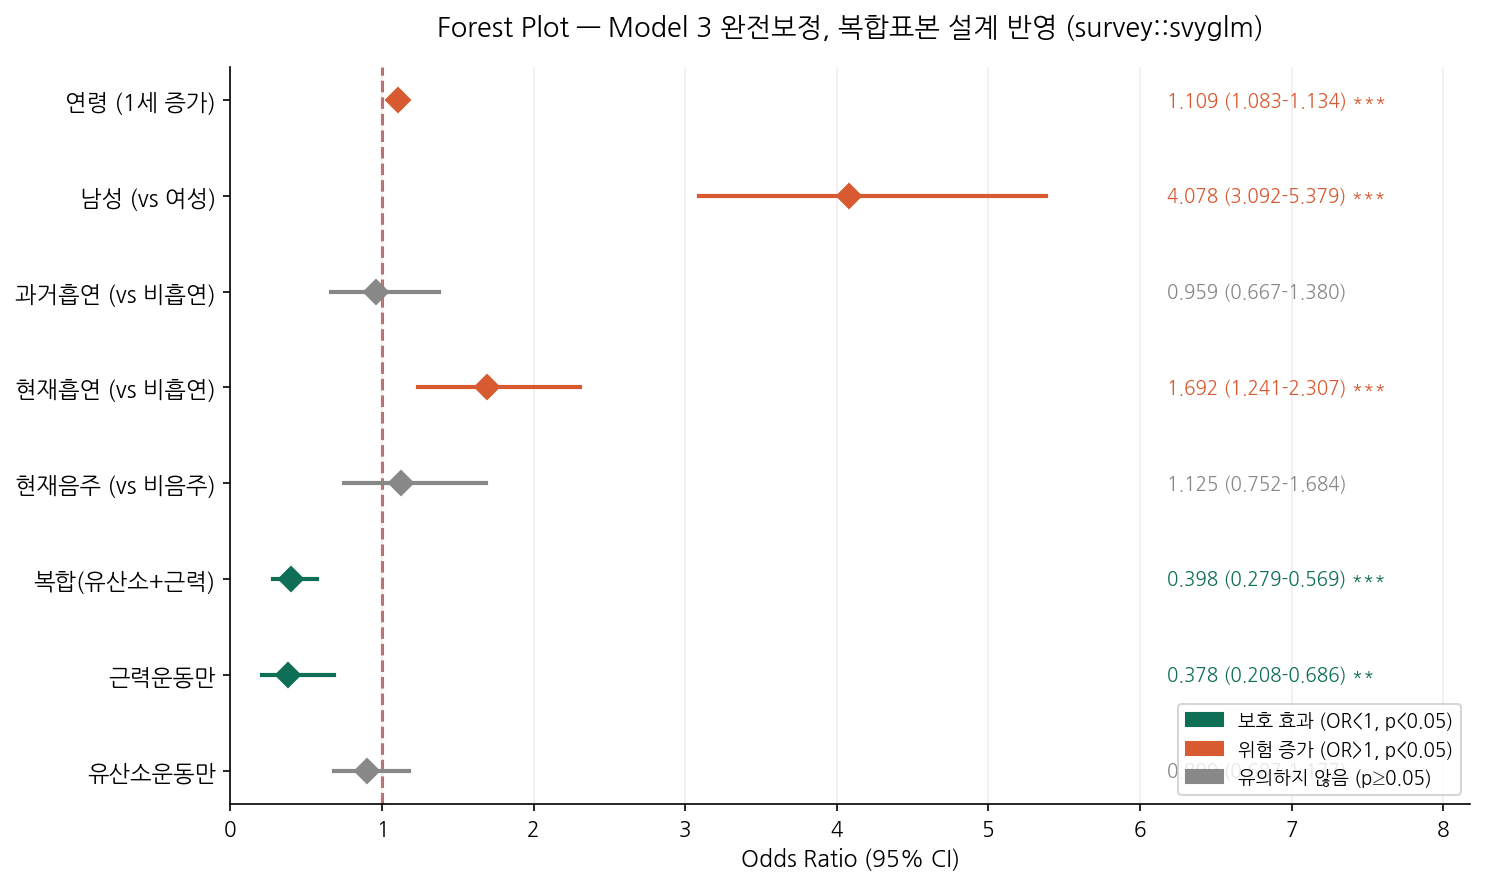
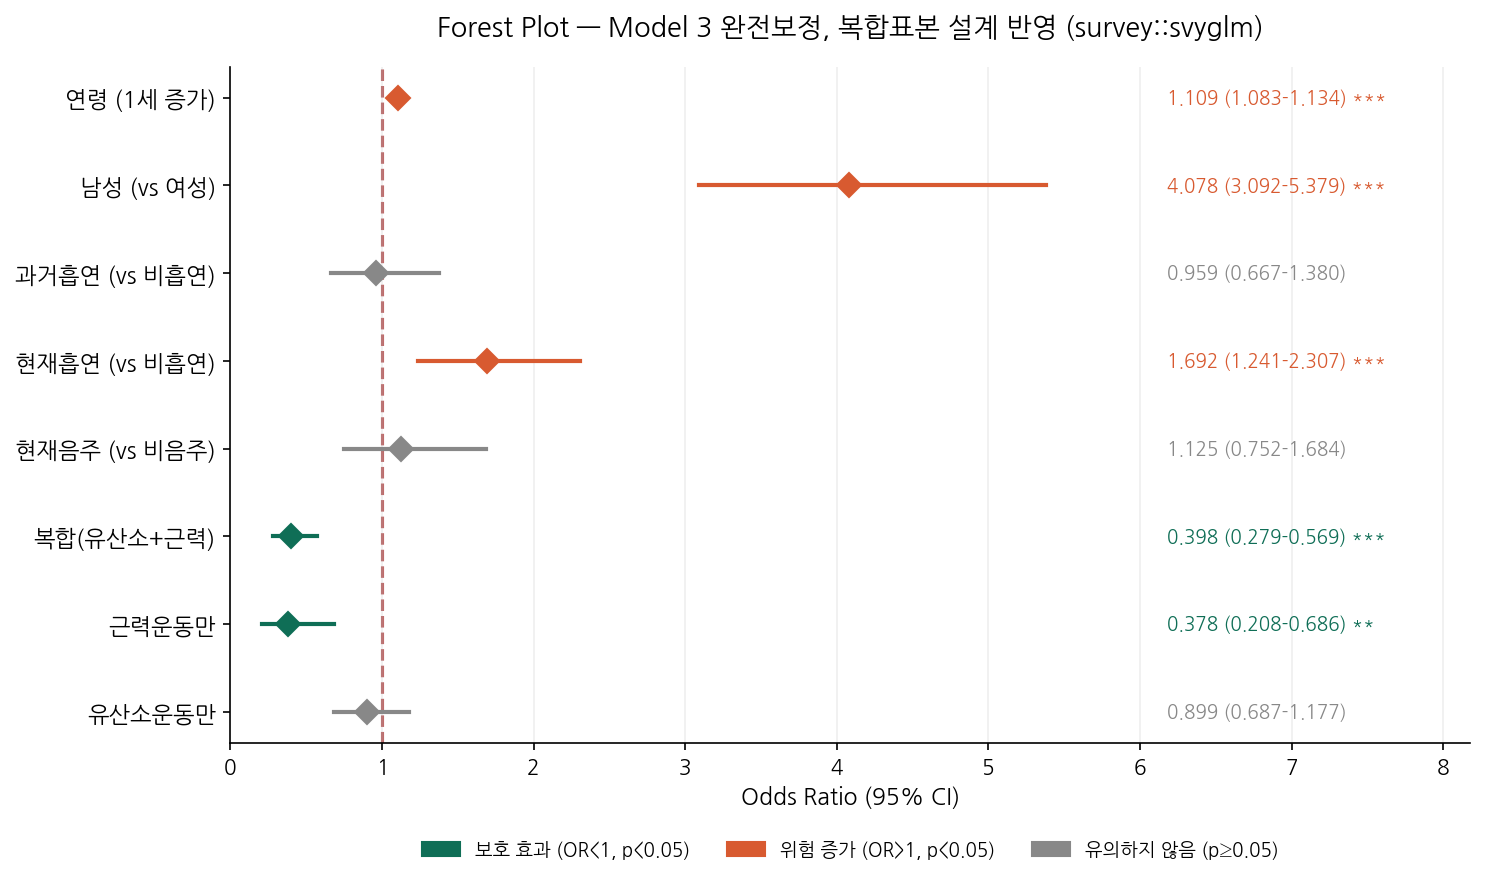
Add files via upload

diff --git a/04_streamlit_app.py b/04_streamlit_app.py
@@ -212,7 +212,7 @@ if selected == "🩺 AI 위험도 예측": # 메뉴 이름 수정 반영
 
         with col_clinical:
             st.markdown("<h5 style='color:#333; margin-bottom:18px;'>🩸 임상 정보 (선택)</h5>", unsafe_allow_html=True)
-            st.caption("대사증후군 임상 기준 확인을 위해, 건강검진 결과가 있다면 입력해주세요. (모를 경우 0 유지)")
+            st.caption("건강검진 결과가 있다면 입력해주세요. 대사증후군 임상 기준 확인에 사용됩니다.")
             u_waist = st.number_input("📏 허리둘레 (cm)", min_value=0.0, value=0.0)
 
             # 혈압 입력 (수축기/이완기 나란히 배치)
